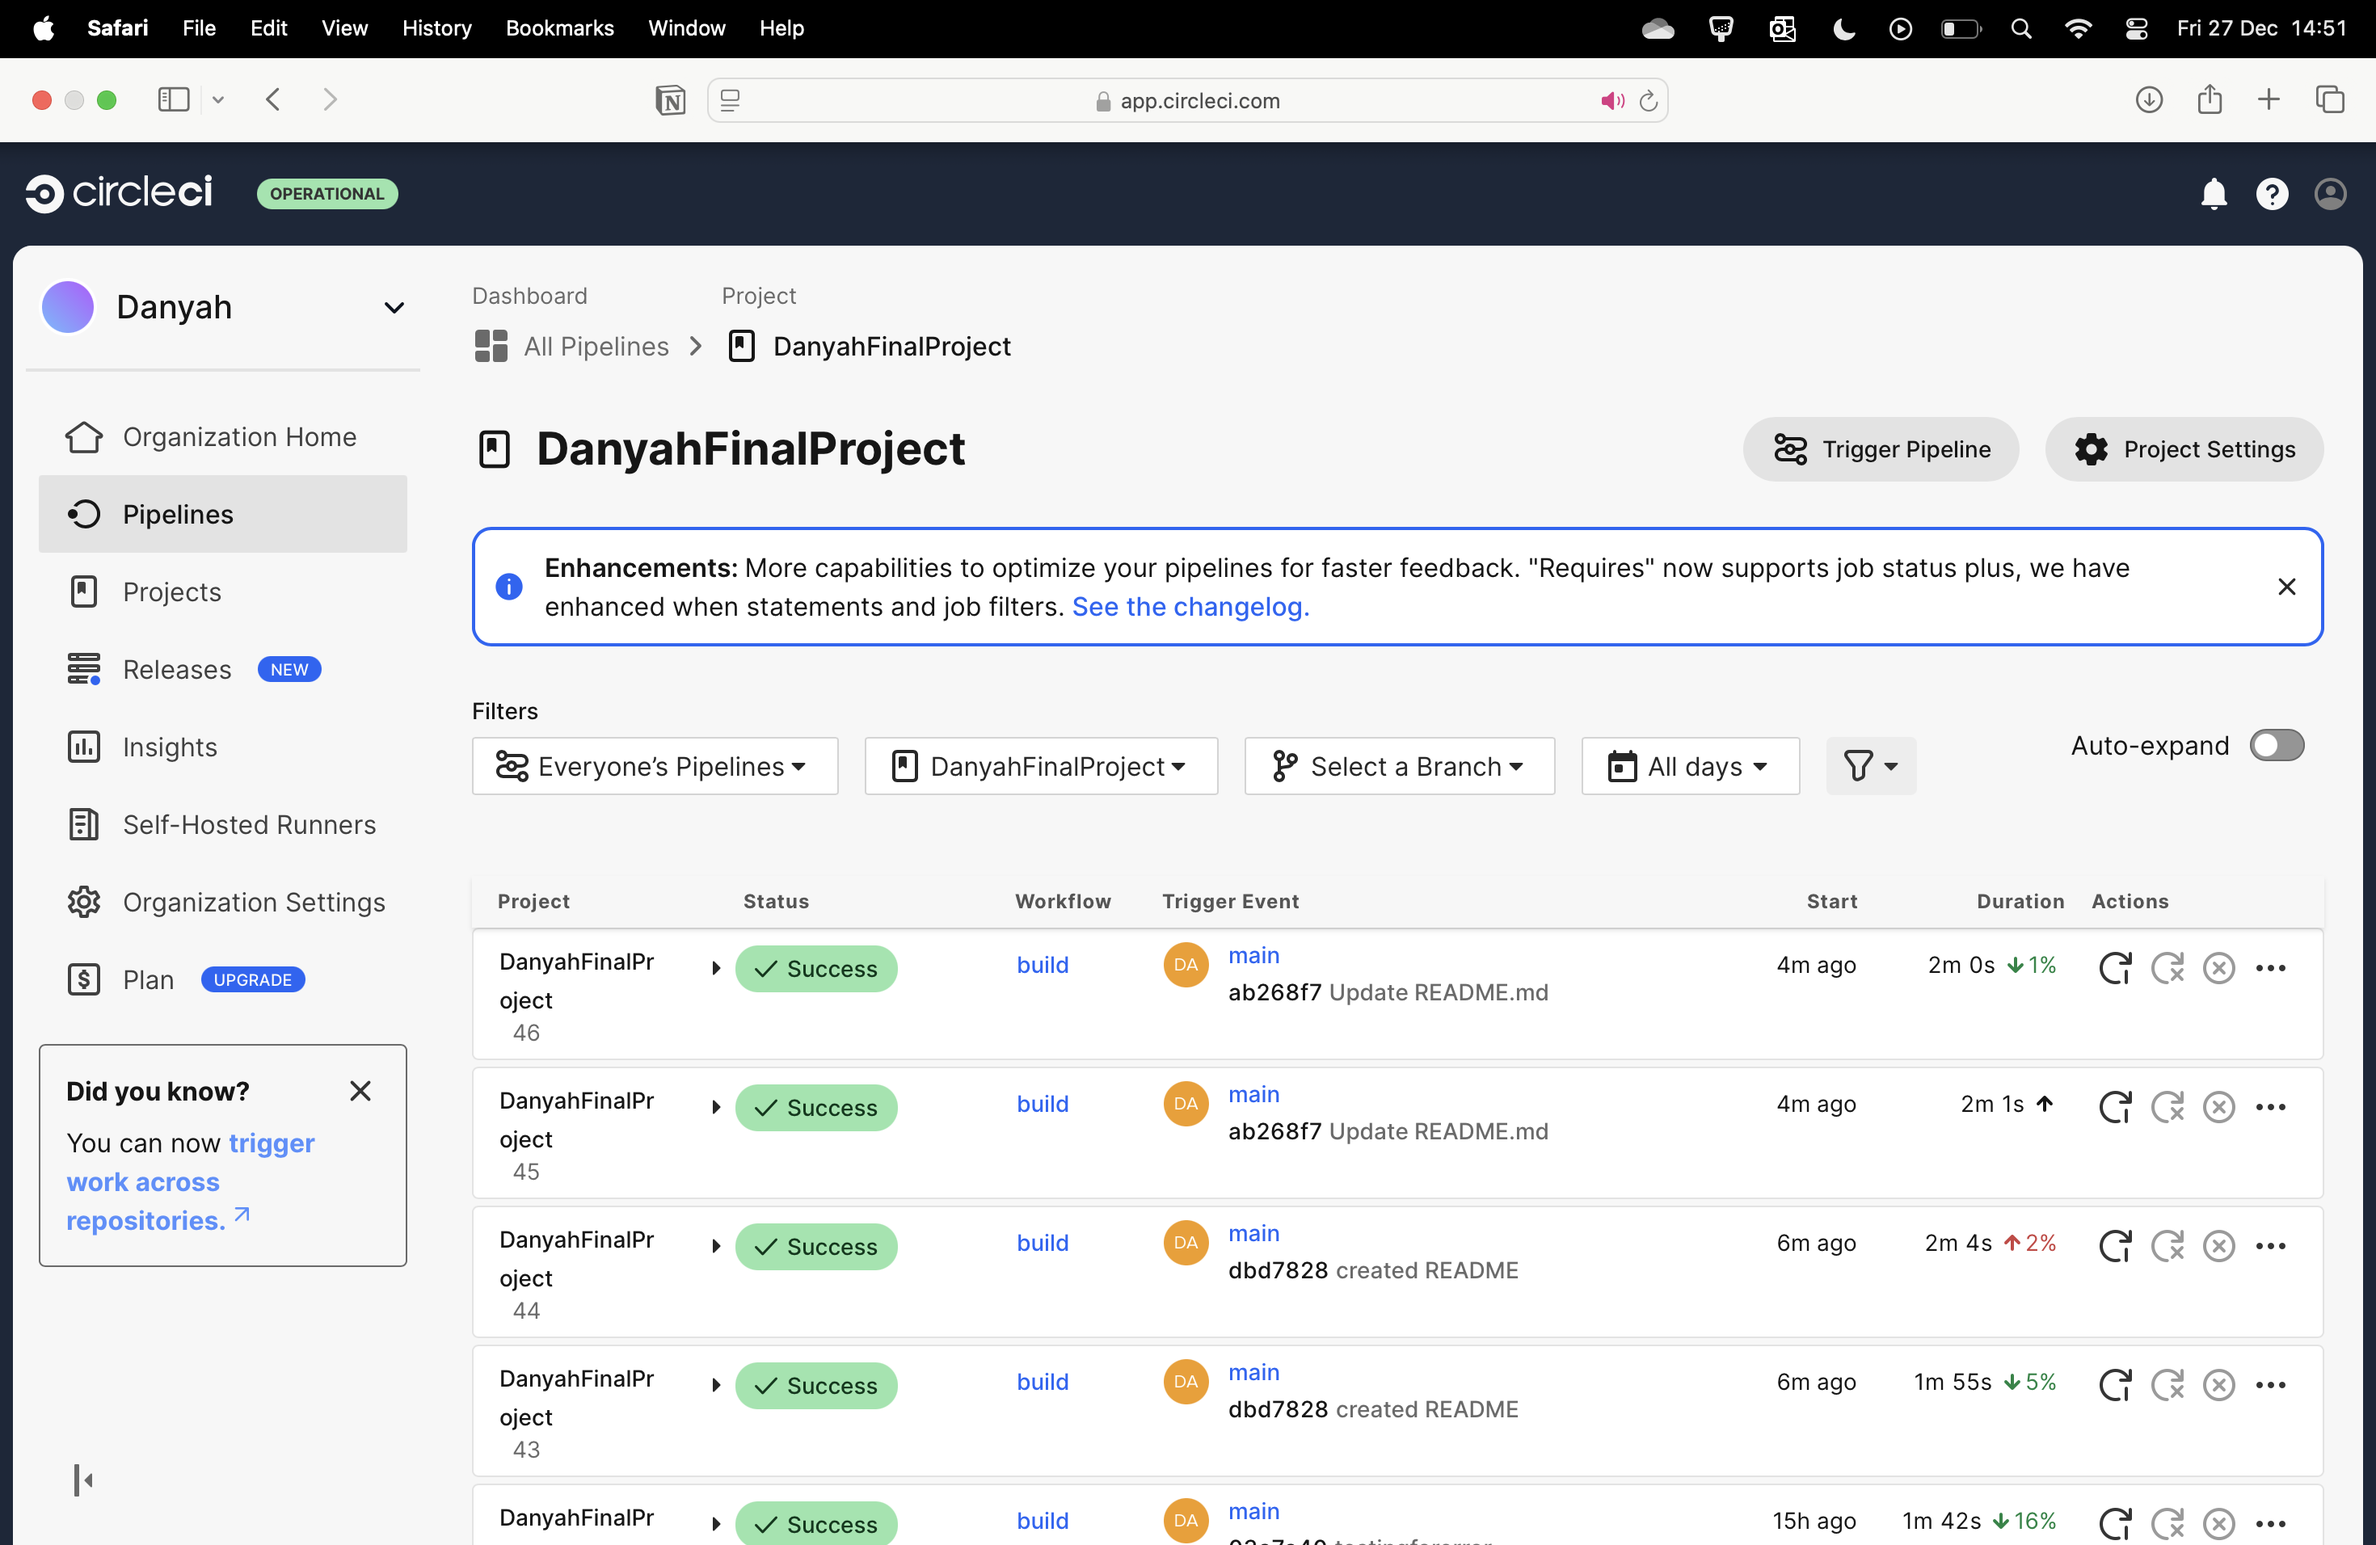
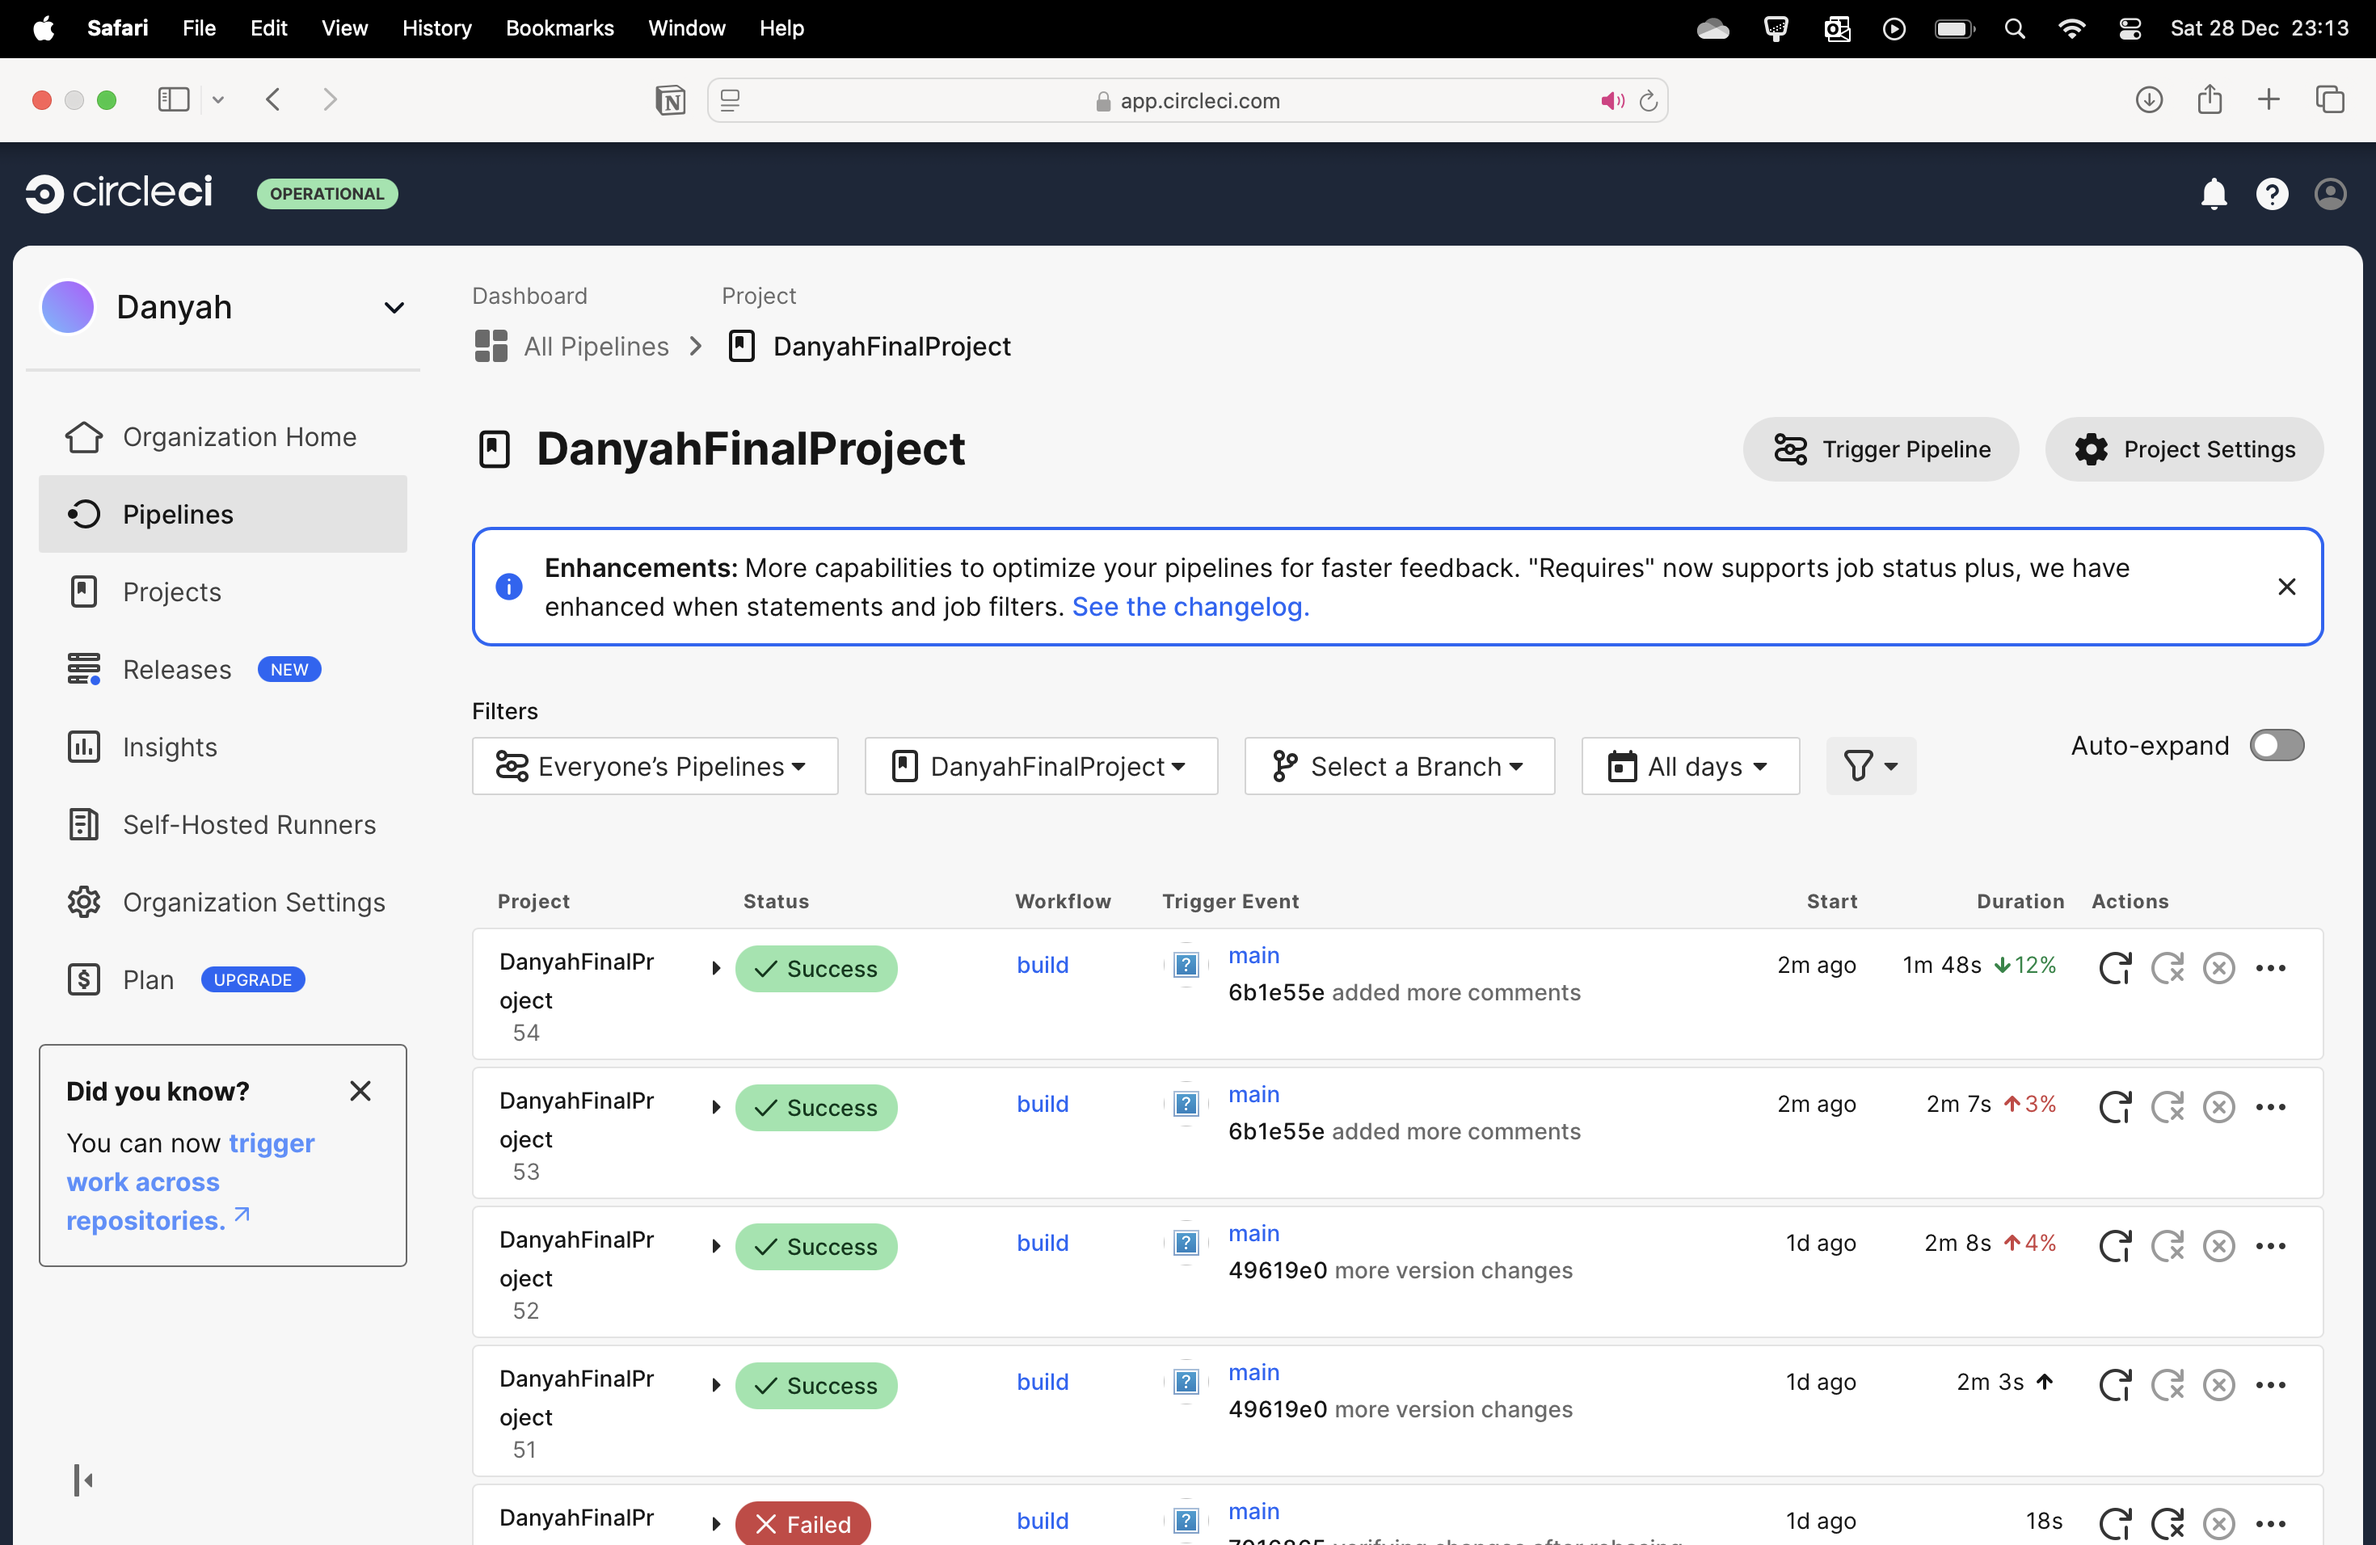
updated circleci screenshot

diff --git a/README.md b/README.md
@@ -36,7 +36,7 @@ This project analyses AIDS mortality rates across regions, income groups and ove
 7.unittestdescription.txt:
 A text file which contains descriptions of each of the unit tests, helping explain their purpose
 
-8.CircleCi.png - an image showing successful run with all unit tests passing, also includes date in top right corner
+8.CircleCi.png - an image showing successful run with all unit tests passing, also includes date and time in top right corner
 
 
 ## Installation 
